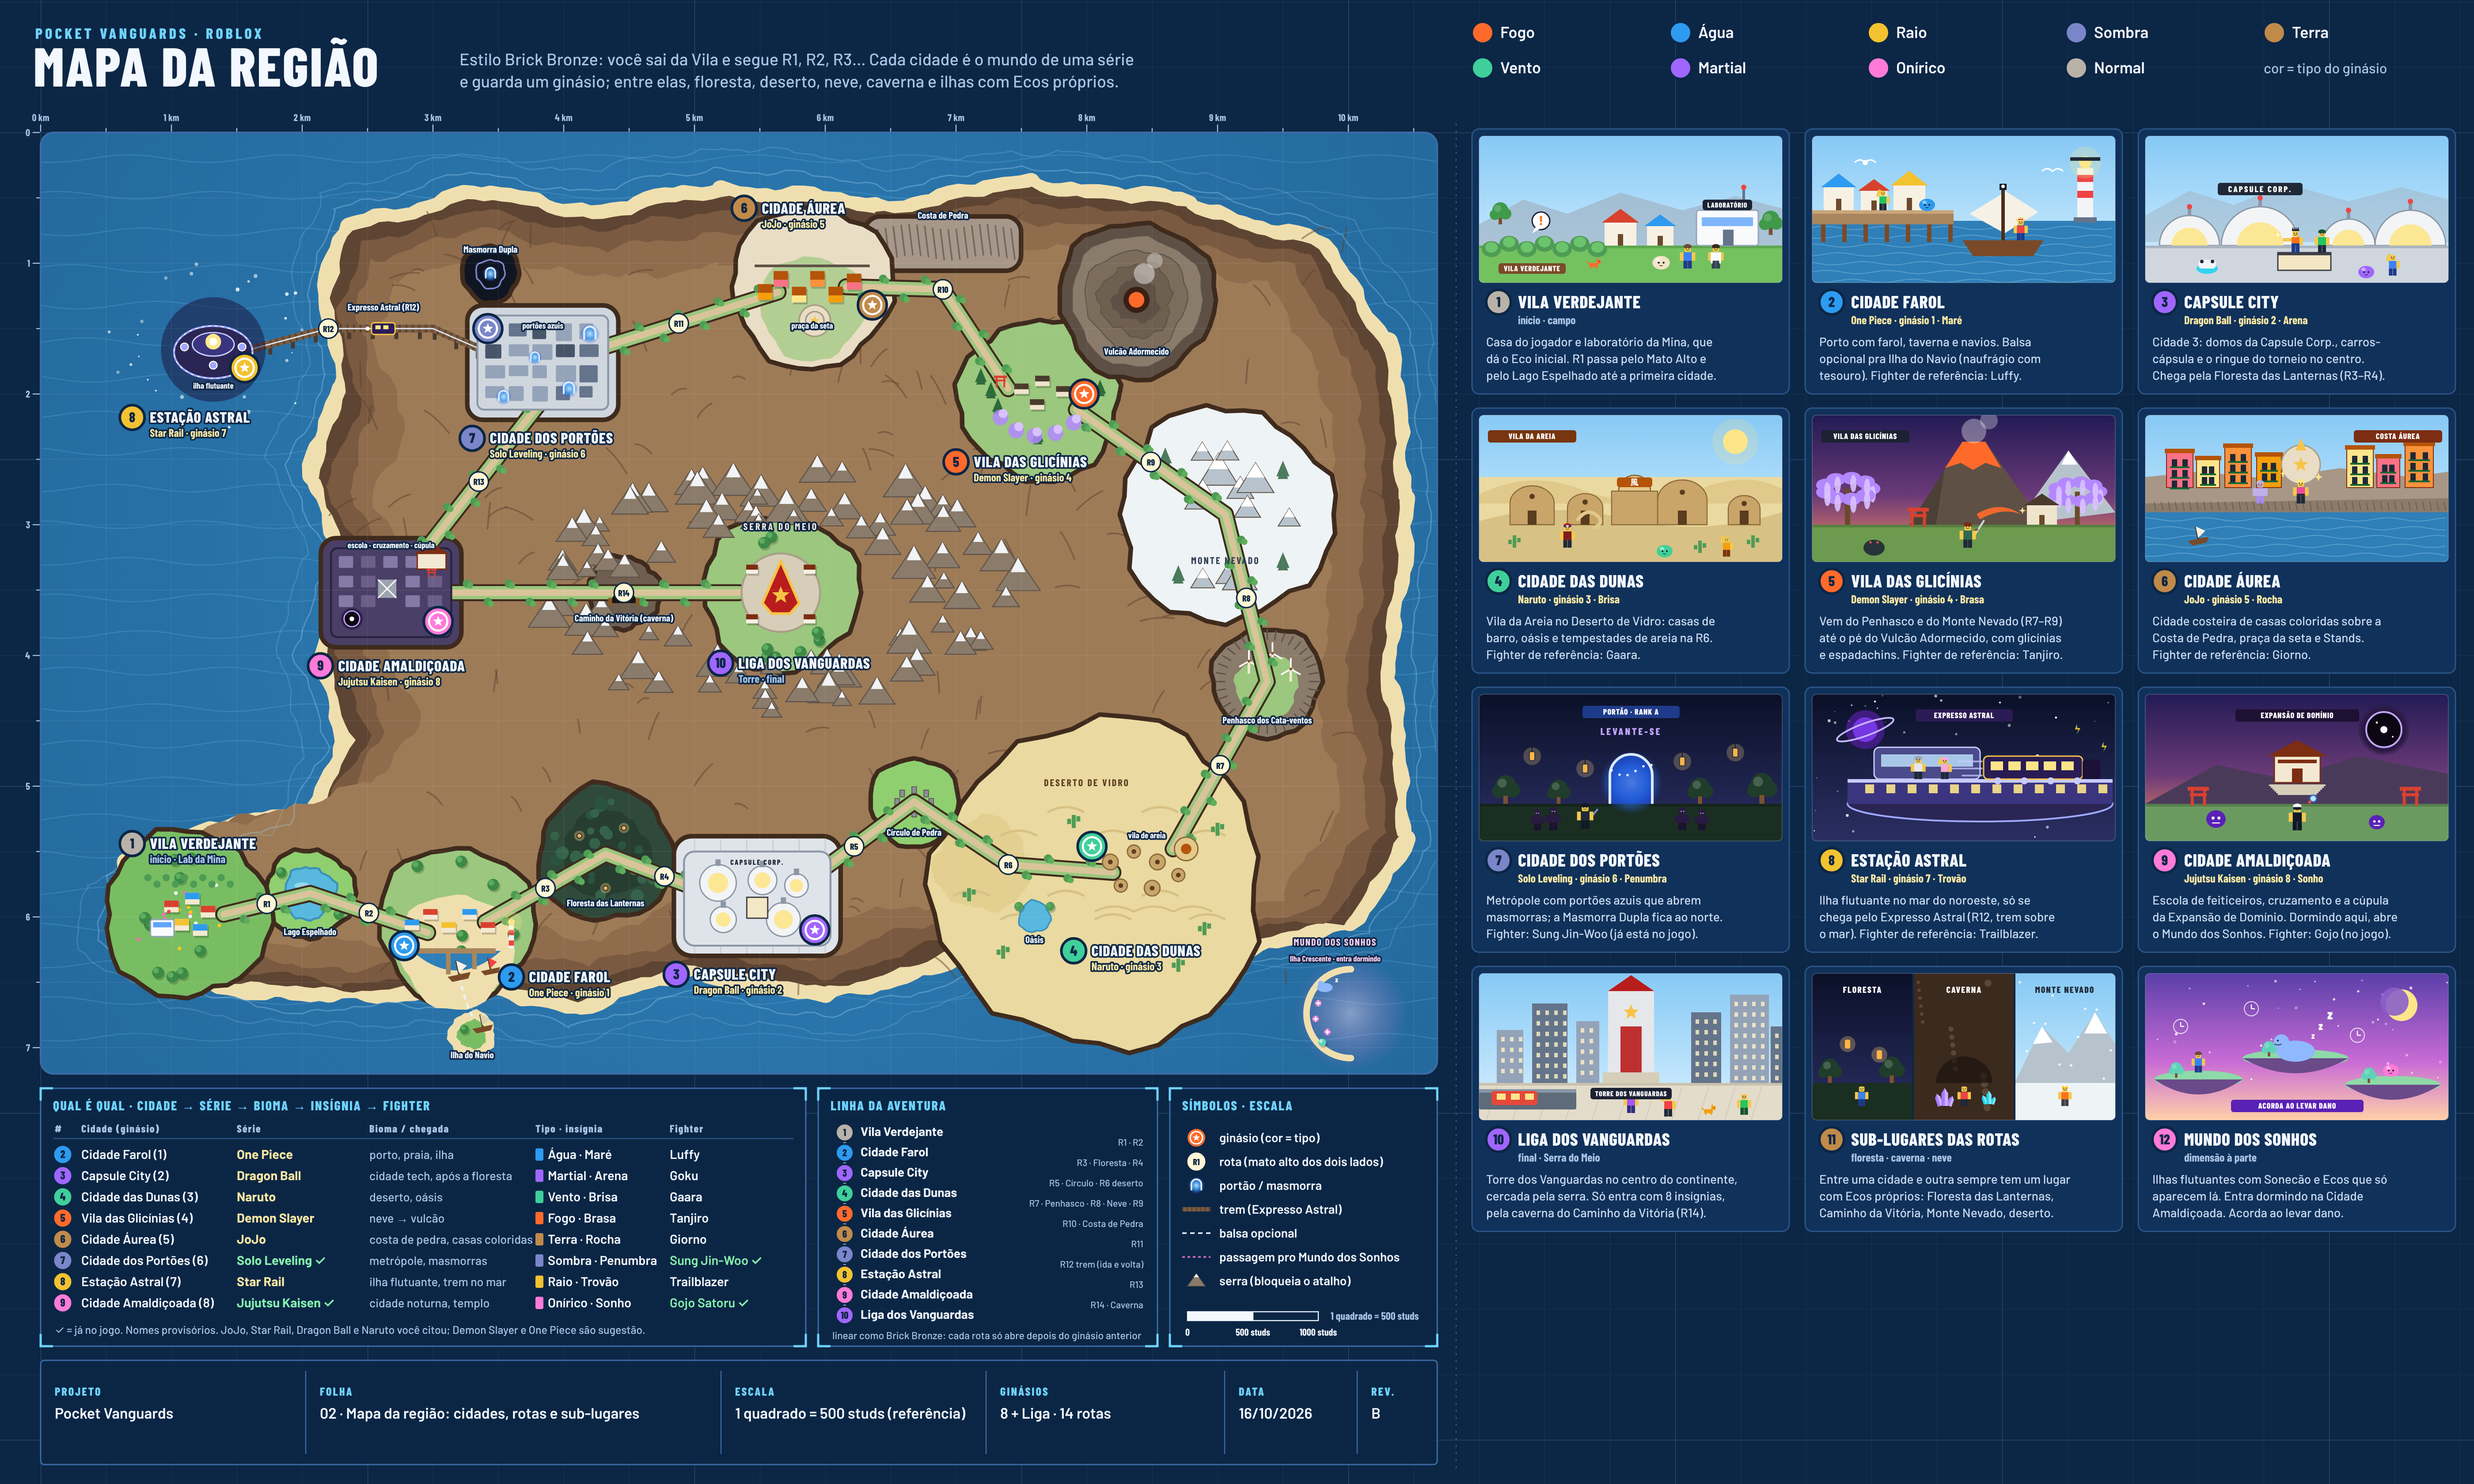
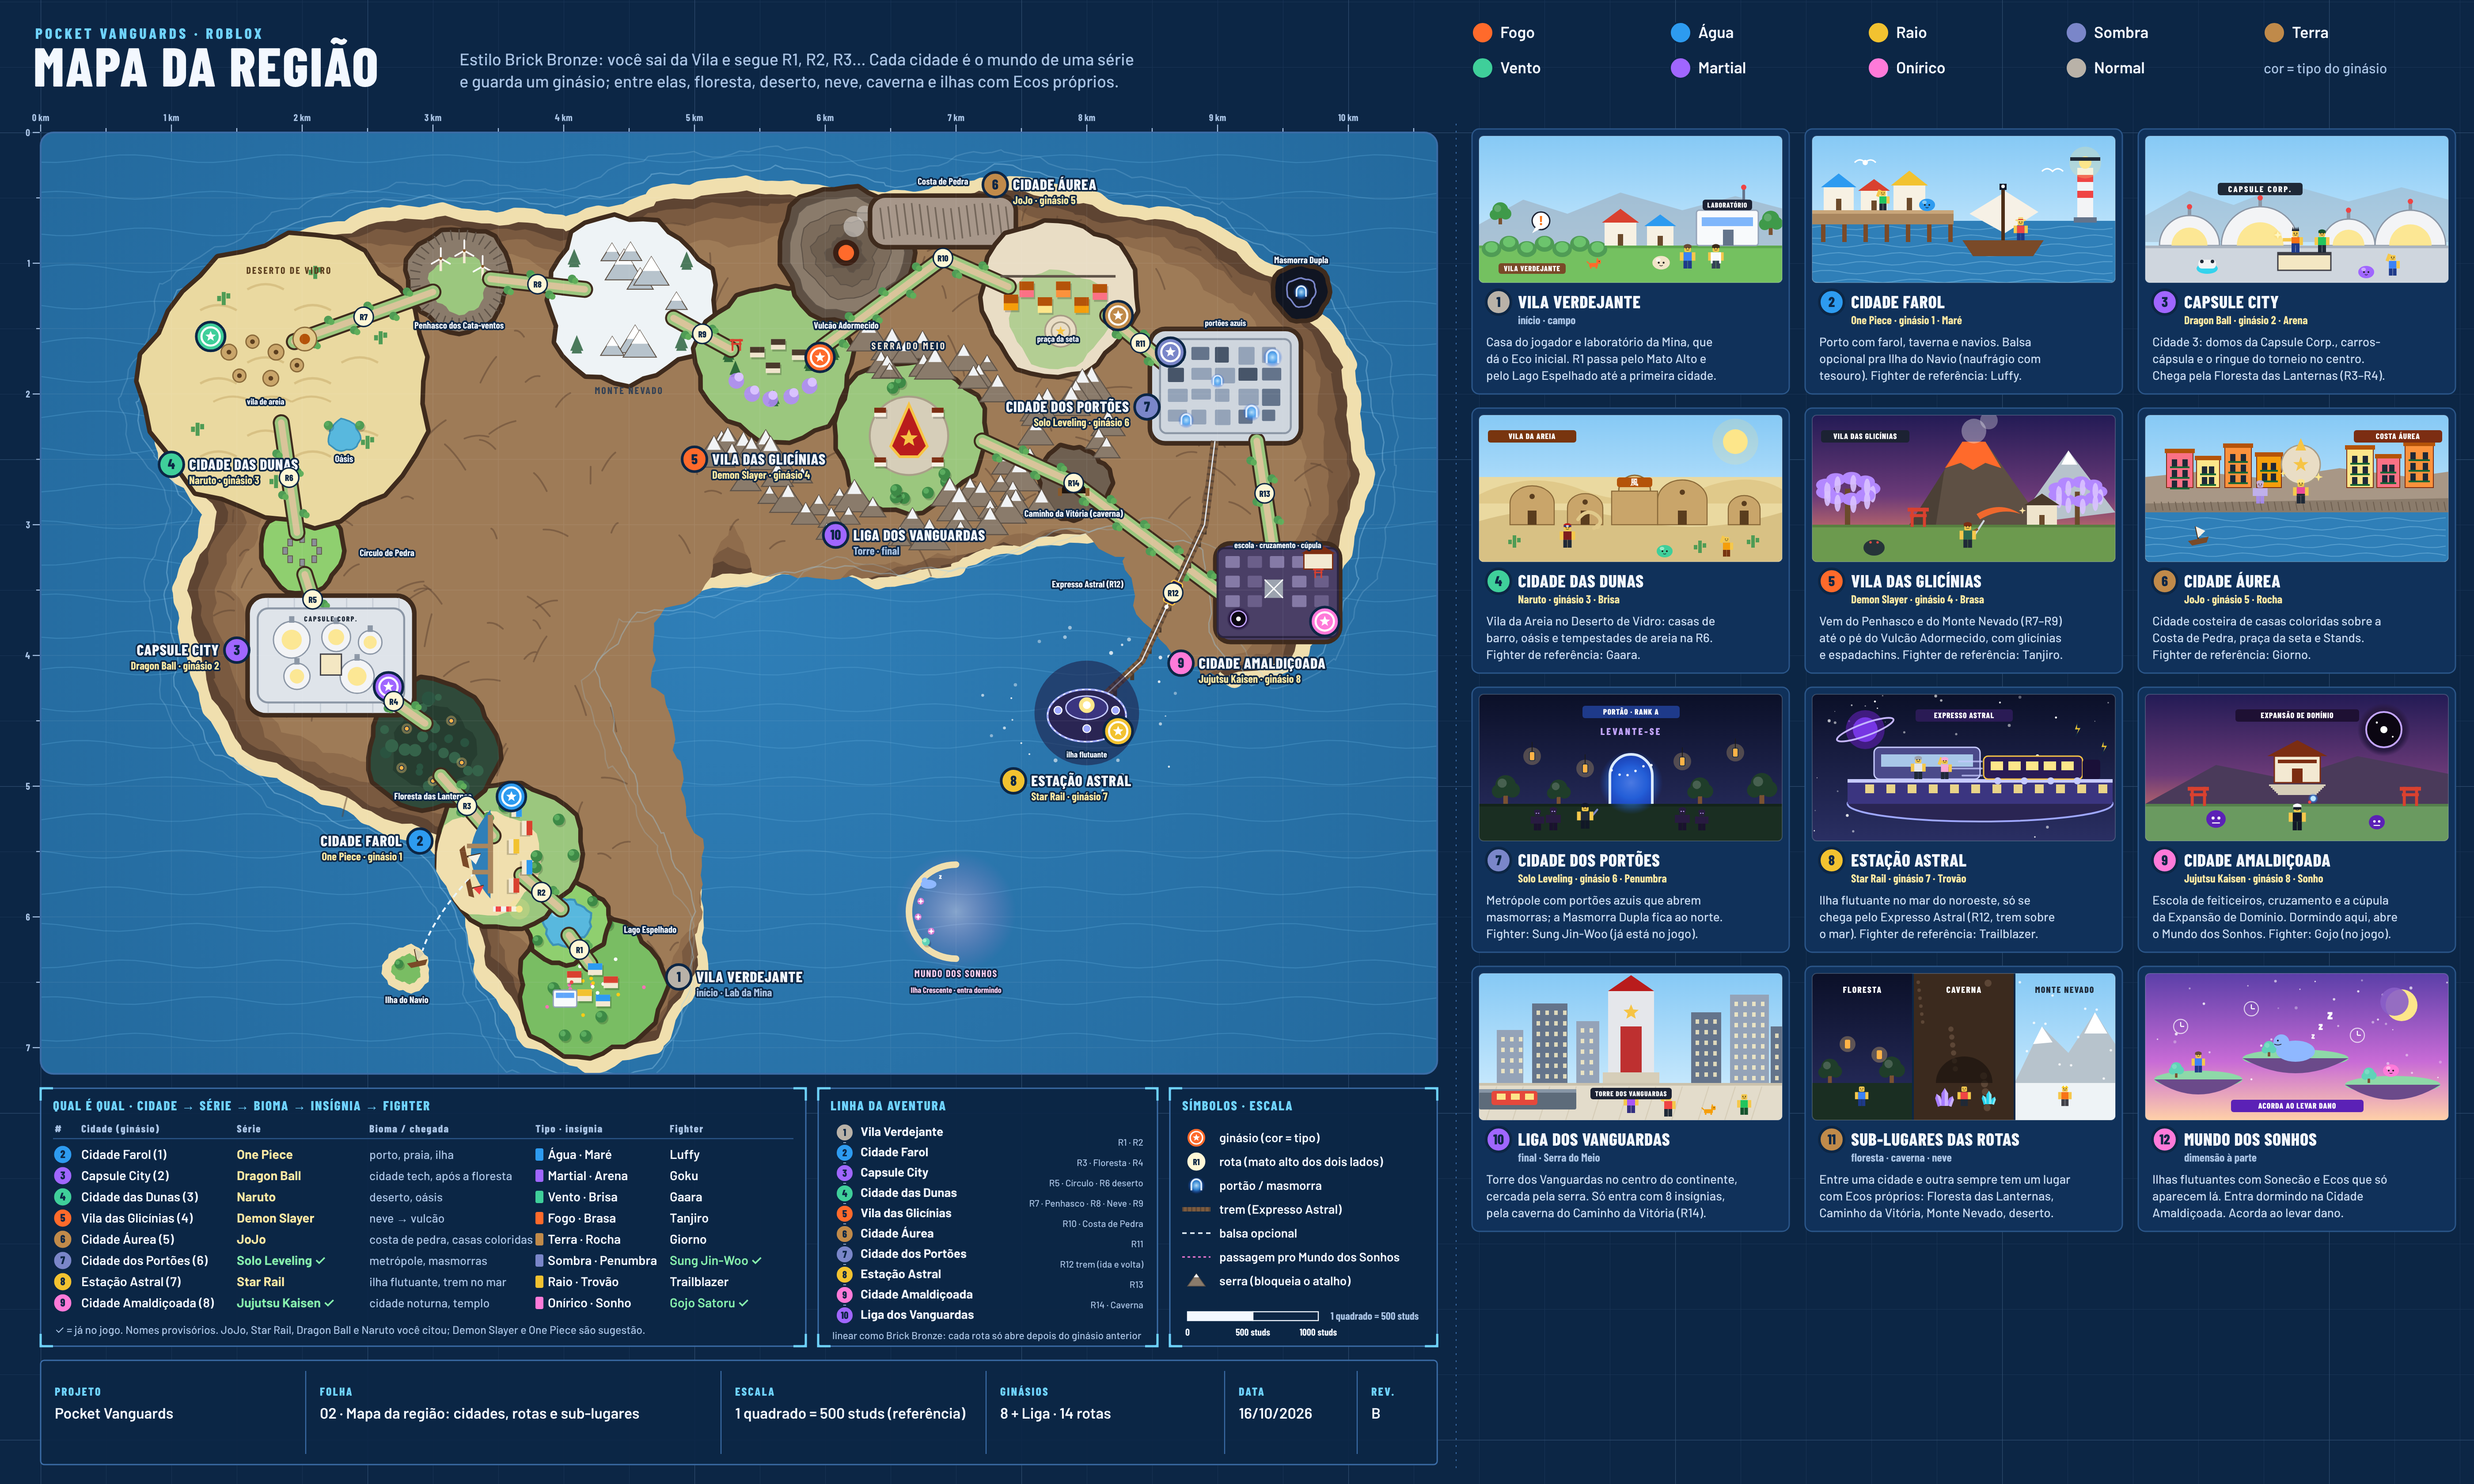
Give the region an irregular silhouette with a bay and a peninsula
The land is no longer a blob filling the frame: a desert lobe in the
northwest, a wide northern band, a western arm, a southern peninsula
where the adventure starts, and a large eastern bay holding the
floating Astral Station and the crescent dream island, with the
shipwreck island off the peninsula. Cities, sub-places, routes, the
rail and the labels were repositioned along the new shape; the harbour
of Cidade Farol now faces the open sea to the west.

Claude-Session: https://claude.ai/code/session_01P2BX4p2bqMC172d7gcR2QP

Changed region(s): [[0.0312, 0.0938, 0.5938, 0.7188]]

diff --git a/design/pocket-vanguards-continente/LEIAME.md b/design/pocket-vanguards-continente/LEIAME.md
@@ -2,7 +2,7 @@
 
 ![Mapa da região](continente-pocket-vanguards.png)
 
-Região do Pocket Vanguards vista de cima, no estilo Pokémon Brick Bronze: você sai da Vila Verdejante e segue R1, R2, R3… Cada cidade é o mundo de uma série e guarda um ginásio. Entre uma cidade e outra tem um sub-lugar com Ecos próprios (lago, floresta, círculo de pedra, deserto, penhasco, montanha de neve, costa de pedra, masmorra, caverna, ilha) e um bioma diferente. O enquadramento é o mesmo do blueprint do simulador: mapa à esquerda, um desenho por lugar à direita, tabela "qual é qual", linha da aventura e símbolos embaixo.
+Região do Pocket Vanguards vista de cima, no estilo de mapa de jogo do Pokémon Brick Bronze (ilha de rocha com formato irregular: lobo de deserto a noroeste, faixa norte, braço oeste, península ao sul e uma baía grande a leste com ilhas dentro; cada lugar é um platô recortado com o próprio bioma): você sai da Vila Verdejante e segue R1, R2, R3… Cada cidade é o mundo de uma série e guarda um ginásio. Entre uma cidade e outra tem um sub-lugar com Ecos próprios (lago, floresta, círculo de pedra, deserto, penhasco, montanha de neve, costa de pedra, masmorra, caverna, ilha) e um bioma diferente. O enquadramento é o mesmo do blueprint do simulador: mapa à esquerda, um desenho por lugar à direita, tabela "qual é qual", linha da aventura e símbolos embaixo.
 
 Todos os nomes de cidade são provisórios. JoJo, Star Rail, Dragon Ball (Capsule City = cidade 3) e Naruto foram citados por você; Jujutsu Kaisen e Solo Leveling já estão no jogo; Demon Slayer e One Piece são sugestão para fechar os 8 ginásios.
 
